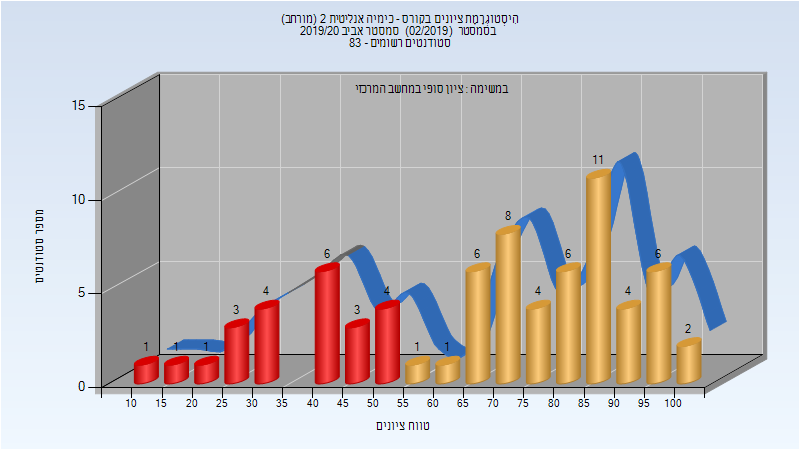
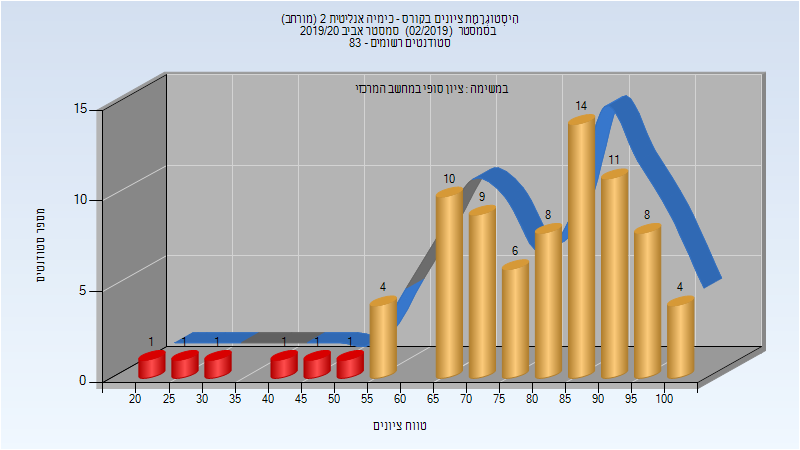
Deploy michael-maltsev/technion-histograms to github.com/michael-maltsev/technion-histograms.git:gh-pages

diff --git a/124911/index.html b/124911/index.html
@@ -482,12 +482,36 @@
 </thead>
 <tbody>
 <tr>
-<td>מעיין גליה</td>
+<td>דה-רויטר גרהם</td>
 <td>מדריך מעבדה - עם הרשאות מרצה אחראי</td>
 </tr>
 <tr>
-<td>דה-רויטר גרהם</td>
+<td>מעיין גליה</td>
 <td></td>
+</tr>
+<tr>
+<td>אביגדורי עידן</td>
+<td>מדריך מעבדה</td>
+</tr>
+<tr>
+<td>חסין אסף</td>
+<td>מדריך מעבדה</td>
+</tr>
+<tr>
+<td>לוי רומי</td>
+<td>מדריך מעבדה</td>
+</tr>
+<tr>
+<td>עואד מוחמד</td>
+<td>מדריך מעבדה</td>
+</tr>
+<tr>
+<td>ליבוביץ ליאב</td>
+<td>מדריך מעבדה</td>
+</tr>
+<tr>
+<td>לפס שי</td>
+<td>מדריך מעבדה</td>
 </tr>
 <tr>
 <td>בשקורוב רומן</td>
@@ -515,30 +539,6 @@
 </tr>
 <tr>
 <td>זלמן בת-חן</td>
-<td>מדריך מעבדה</td>
-</tr>
-<tr>
-<td>אביגדורי עידן</td>
-<td>מדריך מעבדה</td>
-</tr>
-<tr>
-<td>חסין אסף</td>
-<td>מדריך מעבדה</td>
-</tr>
-<tr>
-<td>לוי רומי</td>
-<td>מדריך מעבדה</td>
-</tr>
-<tr>
-<td>עואד מוחמד</td>
-<td>מדריך מעבדה</td>
-</tr>
-<tr>
-<td>ליבוביץ ליאב</td>
-<td>מדריך מעבדה</td>
-</tr>
-<tr>
-<td>לפס שי</td>
 <td>מדריך מעבדה</td>
 </tr>
 </tbody>

diff --git a/124213/index.html b/124213/index.html
@@ -645,13 +645,13 @@
 </thead>
 <tbody>
 <tr>
-<td>72</td>
-<td>49/23</td>
-<td>68</td>
-<td>14</td>
+<td>80</td>
+<td>74/6</td>
+<td>92</td>
+<td>24</td>
 <td>100</td>
-<td>67.917</td>
-<td>73</td>
+<td>78.912</td>
+<td>84</td>
 </tr>
 </tbody>
 </table>

diff --git a/124911/README.md b/124911/README.md
@@ -140,8 +140,14 @@
 
 | איש סגל | תפקיד |
 | ---- | ---- |
-| מעיין גליה | מדריך מעבדה - עם הרשאות מרצה אחראי |
-| דה-רויטר גרהם |  |
+| דה-רויטר גרהם | מדריך מעבדה - עם הרשאות מרצה אחראי |
+| מעיין גליה |  |
+| אביגדורי עידן | מדריך מעבדה |
+| חסין אסף | מדריך מעבדה |
+| לוי רומי | מדריך מעבדה |
+| עואד מוחמד | מדריך מעבדה |
+| ליבוביץ ליאב | מדריך מעבדה |
+| לפס שי | מדריך מעבדה |
 | בשקורוב רומן | מדריך מעבדה |
 | גולדשטיין יוליה | מדריך מעבדה |
 | בורג טליה | מדריך מעבדה |
@@ -149,12 +155,6 @@
 | עוזרי ענבל | מדריך מעבדה |
 | מקרוב קונסטנטין | מדריך מעבדה |
 | זלמן בת-חן | מדריך מעבדה |
-| אביגדורי עידן | מדריך מעבדה |
-| חסין אסף | מדריך מעבדה |
-| לוי רומי | מדריך מעבדה |
-| עואד מוחמד | מדריך מעבדה |
-| ליבוביץ ליאב | מדריך מעבדה |
-| לפס שי | מדריך מעבדה |
 
 ### סופי מועד א'
 

diff --git a/124213/README.md b/124213/README.md
@@ -200,5 +200,5 @@
 
 | סטודנטים | עברו/נכשלו | אחוז עוברים | ציון מינימלי | ציון מקסימלי | ממוצע | חציון |
 | ---- | ---- | ---- | ---- | ---- | ---- | ---- |
-| 72 | 49/23 | 68 | 14 | 100 | 67.917 | 73 |
+| 80 | 74/6 | 92 | 24 | 100 | 78.912 | 84 |
 
